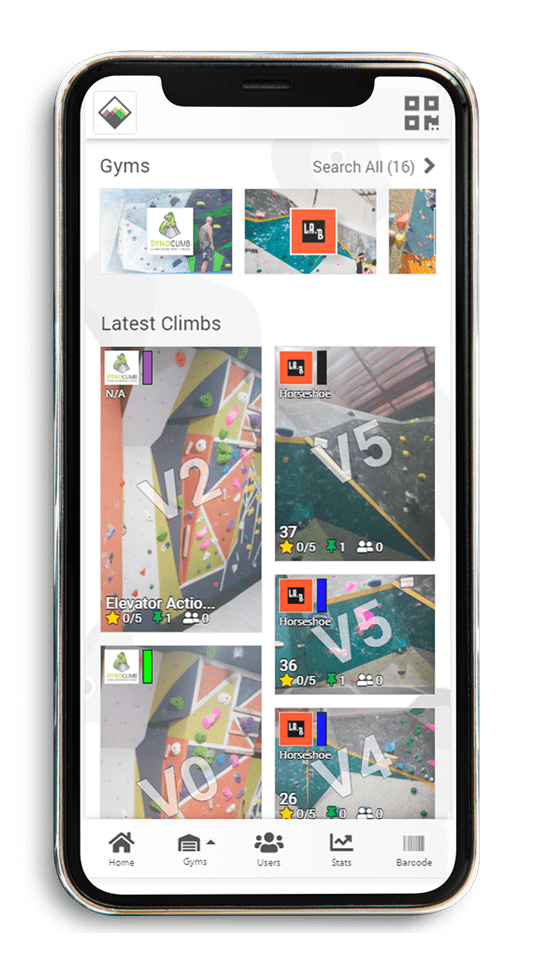
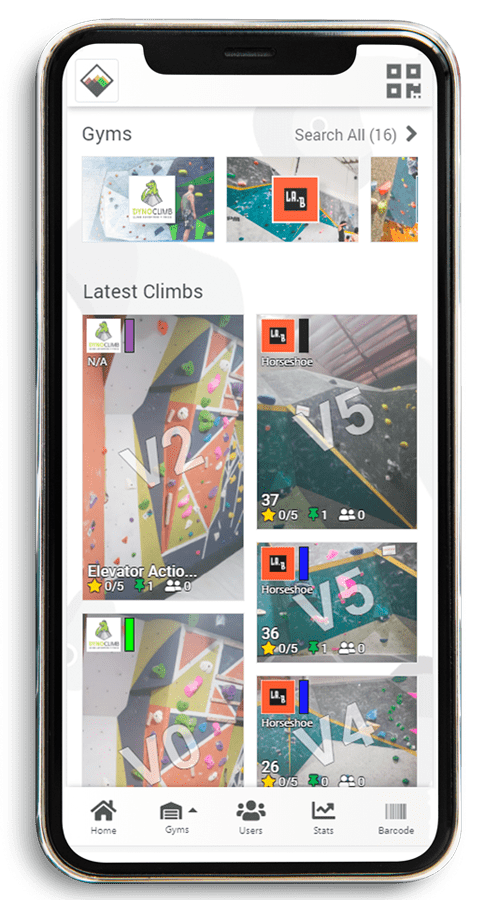
padding remove

diff --git a/index.html b/index.html
@@ -148,15 +148,16 @@
 <div class="container">
         <div class="container" >
             <div class="row">
-                <div class="col-md-7 text-center">
-                    <img src="images/dualphone1.png" alt="dual phone" class="img-fluid" id="dual-phone-img">
-                </div>
+
                 <div class="col-md-5 d-flex align-items-center">
                     <div>
                         <div class="box-icon"><span class="ti-rocket gradient-fill ti-3x"></span></div>
                         <h3>Scan the <span style="font-weight: 700">βTag™</span> or Area Posters!</h3>
                         <p class="mb-4">Don't waste time aimlessly browsing instagram or youtube for beta. Get it seamlessly by scanning the βTag™ with your phone's camera or NFC tag reader. In competition mode, scan to enter your attempts and compete with others with live scoring! </p>
                     </div>
+                </div>
+                <div class="col-md-7 text-center">
+                    <img src="images/dualphone1.png" alt="dual phone" class="img-fluid" id="dual-phone-img">
                 </div>
             </div>
 
@@ -328,9 +329,9 @@
             </div>
           <!-- </div> -->
                     <div class="social-icons">
-                        <a href="https://www.facebook.com/betabouldersapp/"><span class="ti-facebook"></span></a>
-                        <a href="https://twitter.com/betabouldersapp/"><span class="ti-twitter-alt"></span></a>
-                        <a href="https://www.instagram.com/betabouldersapp/"><span class="ti-instagram"></span></a>
+                        <a href="https://www.facebook.com/betabouldersapp/"><span class="ti-facebook text-primary"></span></a>
+                        <a href="https://twitter.com/betabouldersapp/"><span class="ti-twitter-alt text-info"></span></a>
+                        <a href="https://www.instagram.com/betabouldersapp/"><span class="ti-instagram text-danger"></span></a>
                     </div>
                 </div>
             </div>

diff --git a/gyms.html b/gyms.html
@@ -457,9 +457,9 @@
             </div>
           <!-- </div> -->
                     <div class="social-icons">
-                        <a href="https://www.facebook.com/betabouldersapp/"><span class="ti-facebook"></span></a>
-                        <a href="https://twitter.com/betabouldersapp/"><span class="ti-twitter-alt"></span></a>
-                        <a href="https://www.instagram.com/betabouldersapp/"><span class="ti-instagram"></span></a>
+                        <a href="https://www.facebook.com/betabouldersapp/"><span class="ti-facebook text-primary"></span></a>
+                        <a href="https://twitter.com/betabouldersapp/"><span class="ti-twitter-alt text-info"></span></a>
+                        <a href="https://www.instagram.com/betabouldersapp/"><span class="ti-instagram text-danger"></span></a>
                     </div>
                 </div>
             </div>
